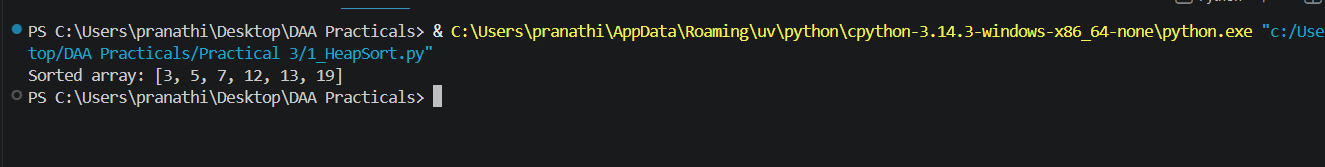
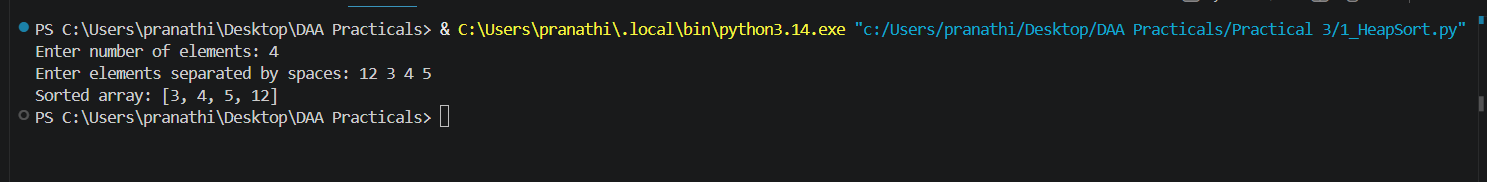
HeapSort

diff --git a/Practical 3/1_HeapSort.py b/Practical 3/1_HeapSort.py
@@ -1,7 +1,7 @@
 def heapify(arr, n, i):
-    largest = i       
-    left = 2 * i + 1     
-    right = 2 * i + 2    
+    largest = i
+    left = 2 * i + 1
+    right = 2 * i + 2
     if left < n and arr[left] > arr[largest]:
         largest = left
     if right < n and arr[right] > arr[largest]:
@@ -15,7 +15,8 @@ def heap_sort(arr):
         heapify(arr, n, i)
     for i in range(n - 1, 0, -1):
         arr[0], arr[i] = arr[i], arr[0]
-        heapify(arr, i,0)
-arr = [12, 3, 19, 5, 7, 13]
+        heapify(arr, i, 0)
+n = int(input("Enter number of elements: "))
+arr = list(map(int, input("Enter elements separated by spaces: ").split()))
 heap_sort(arr)
 print("Sorted array:", arr)
